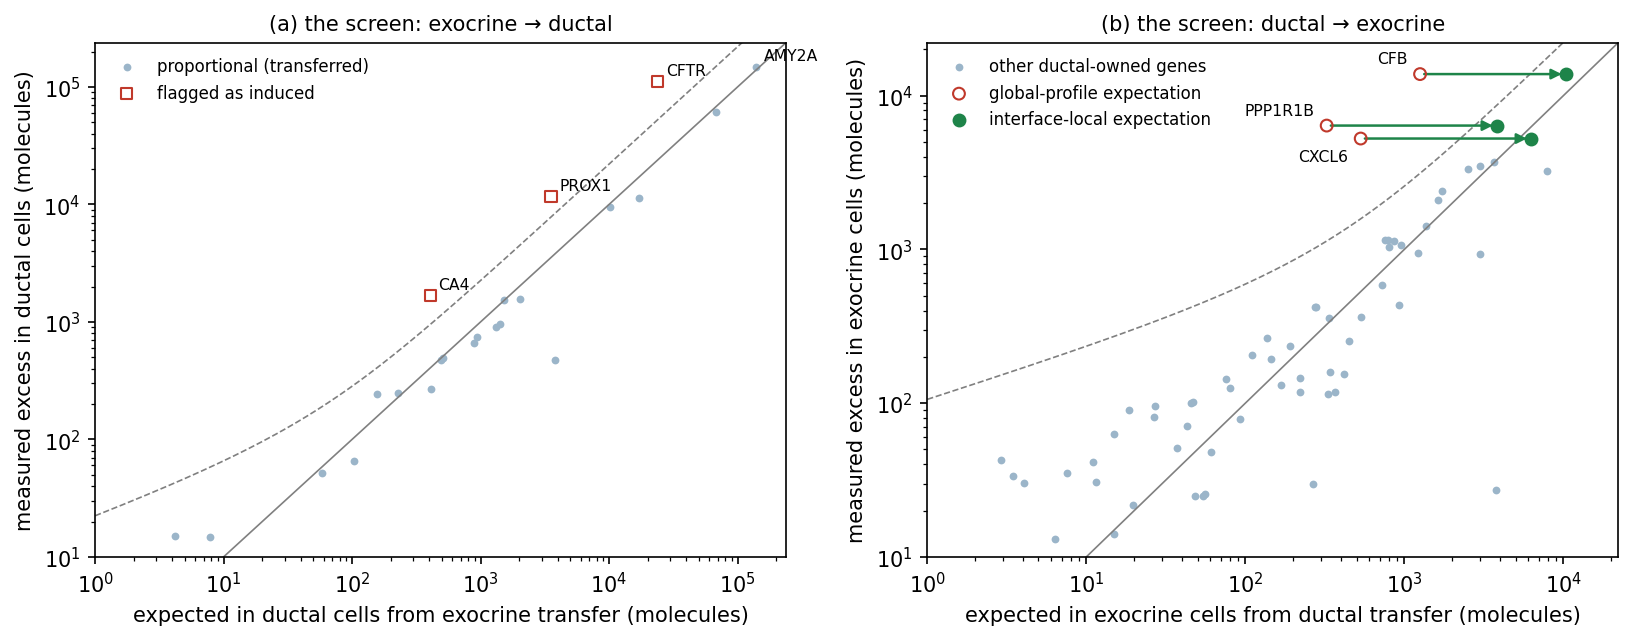
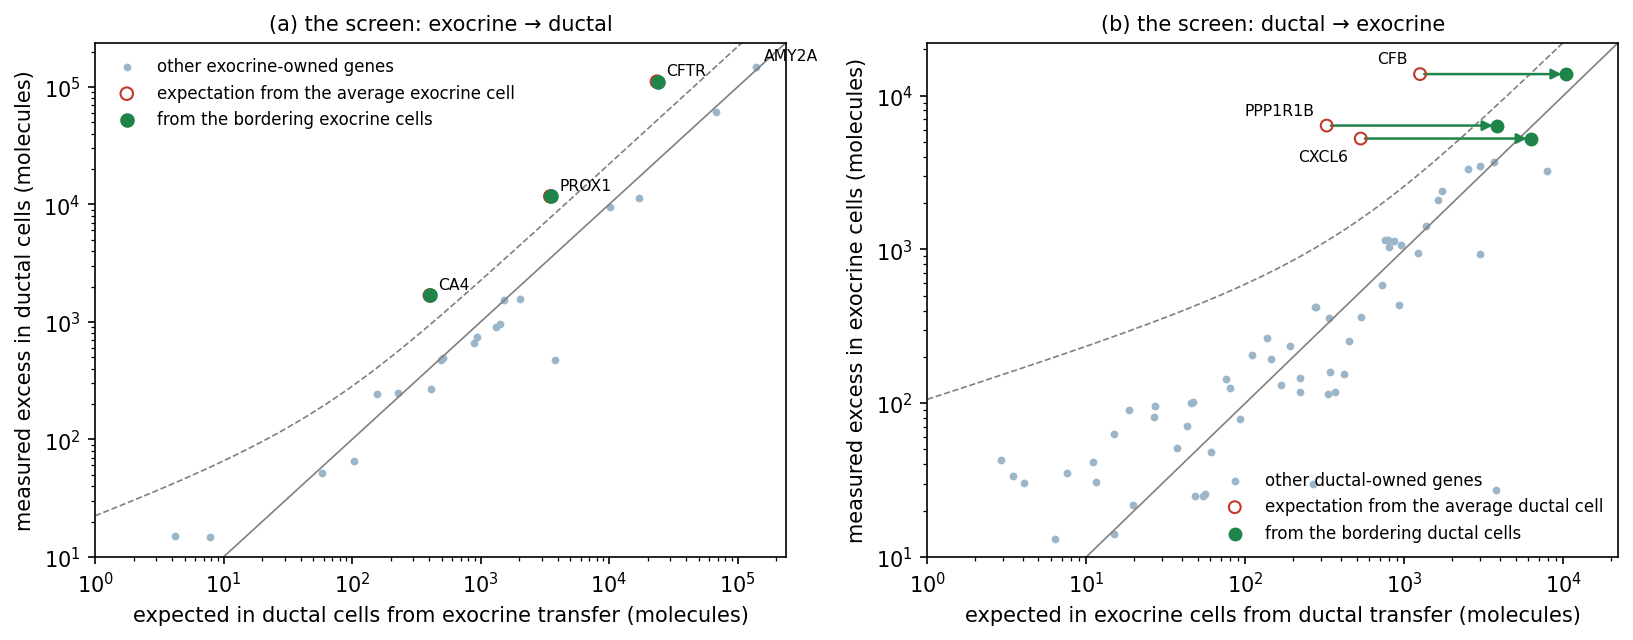
Draw both expectations in panel a; unified marker grammar

diff --git a/analysis/generative_model/05_figure.py b/analysis/generative_model/05_figure.py
@@ -221,12 +221,26 @@ P_A = "Exocrine epithelial -> Ductal/tumor epithelial"
 S_A, T_A = "Exocrine epithelial", TARGET
 psi_a = zeroed_profile(inp.near_source_profile(S_A, T_A), T_A)
 gset, exc, expct, z, var_a = screen_fit(P_A, psi_a)
+psi_ga = zeroed_profile(inp.psi_raw[S_A], T_A)
+_, _, expct_ga, _, _ = screen_fit(P_A, psi_ga)
 ok = (exc > 10) & (expct > 1)
 flag = (z > gm.IND_Z) & (exc > gm.IND_MIN_EXCESS)
 axa.scatter(expct[ok & ~flag], exc[ok & ~flag], s=14, color="#9bb5c9",
-            lw=0, label="proportional (transferred)")
-axa.scatter(expct[flag], exc[flag], s=30, marker="s", facecolors="none",
-            edgecolors="#c0392b", label="flagged as induced")
+            lw=0, label="other exocrine-owned genes")
+# Both expectations for the flagged genes: from the average exocrine cell
+# and from the bordering exocrine cells. For this pair they coincide -
+# the exocrine composition is the same at the border - so the two markers
+# superimpose.
+for k in np.flatnonzero(flag):
+    axa.plot([expct_ga[k], expct[k]], [exc[k], exc[k]], color="#1e8449",
+             lw=1.1, zorder=4)
+    axa.scatter([expct_ga[k]], [exc[k]], s=36, facecolors="none",
+                edgecolors="#c0392b", zorder=5)
+    axa.scatter([expct[k]], [exc[k]], s=36, color="#1e8449", zorder=5)
+axa.scatter([], [], s=36, facecolors="none", edgecolors="#c0392b",
+            label="expectation from the average exocrine cell")
+axa.scatter([], [], s=36, color="#1e8449",
+            label="from the bordering exocrine cells")
 lim = [1, max(exc.max(), expct.max()) * 1.6]
 axa.plot(lim, lim, color="grey", lw=0.8)
 # Significance bounds of the screen: a deviation of more than 8 standard
@@ -295,15 +309,15 @@ for gname in ["CXCL6", "CFB", "PPP1R1B"]:
     axb.annotate(gname, (expct_g[k], exc_b[k]), fontsize=7.5,
                  xytext=(-6, dy), textcoords="offset points", ha="right")
 axb.scatter([], [], s=32, marker="o", facecolors="none",
-            edgecolors="#c0392b", label="global-profile expectation")
+            edgecolors="#c0392b", label="expectation from the average ductal cell")
 axb.scatter([], [], s=32, marker="o", color="#1e8449",
-            label="interface-local expectation")
+            label="from the bordering ductal cells")
 axb.set_xscale("log"); axb.set_yscale("log")
 axb.set_xlim(limb); axb.set_ylim([10, limb[1]])
 axb.set_xlabel("expected in exocrine cells from ductal transfer (molecules)")
 axb.set_ylabel("measured excess in exocrine cells (molecules)")
 axb.set_title("(b) the screen: ductal → exocrine", fontsize=10)
-axb.legend(frameon=False, fontsize=8, loc="upper left")
+axb.legend(frameon=False, fontsize=8, loc="lower right")
 
 fig2.tight_layout()
 fig2.savefig(os.path.join(OUT, "generative_fig2.png"), dpi=150,

diff --git a/docs/generative.md b/docs/generative.md
@@ -160,15 +160,16 @@ would deliver given the gene's share of the interface-local exocrine
 profile (horizontal). The diagonal means "fully accounted for by
 transfer"; the dashed curve marks the largest excess still consistent
 with proportional transfer, allowing counting noise and a 15% error in
-the profile itself, with a wide safety margin — the red squares above
-it are the genes flagged as induced. No corresponding lower bound
-exists: at this margin the allowance exceeds the expectation itself, so
-a shortfall can never be flagged and the screen acts only on excess.
-Only one expectation is drawn because for this pair the two coincide:
-exocrine cells bordering ductal tissue have the same composition as
-average exocrine cells (expectations agree within 1%), so the
-border-state effect shown in (b) is a property of the ductal cells, not
-a general feature of interfaces. **(b)** The
+the profile itself, with a wide safety margin — the genes above it
+(CFTR, PROX1, CA4) are flagged as induced. As in (b), both expectations
+are drawn for these genes — from the average exocrine cell (open red)
+and from the bordering exocrine cells (filled green) — and here the two
+coincide within 1%, so the markers superimpose: the exocrine
+composition is the same at the border, and the border-state effect of
+(b) is a property of the ductal cells rather than a general feature of
+interfaces. No lower bound is drawn: at this safety margin the
+allowance exceeds the expectation itself, so a shortfall can never be
+flagged and the screen acts only on excess. **(b)** The
 same plot for the reverse admixture direction, ductal → exocrine. Grey:
 all ductal-owned genes under the expectation from the bordering ductal
 cells — the data the proportional fit is made from; the dashed curve is
